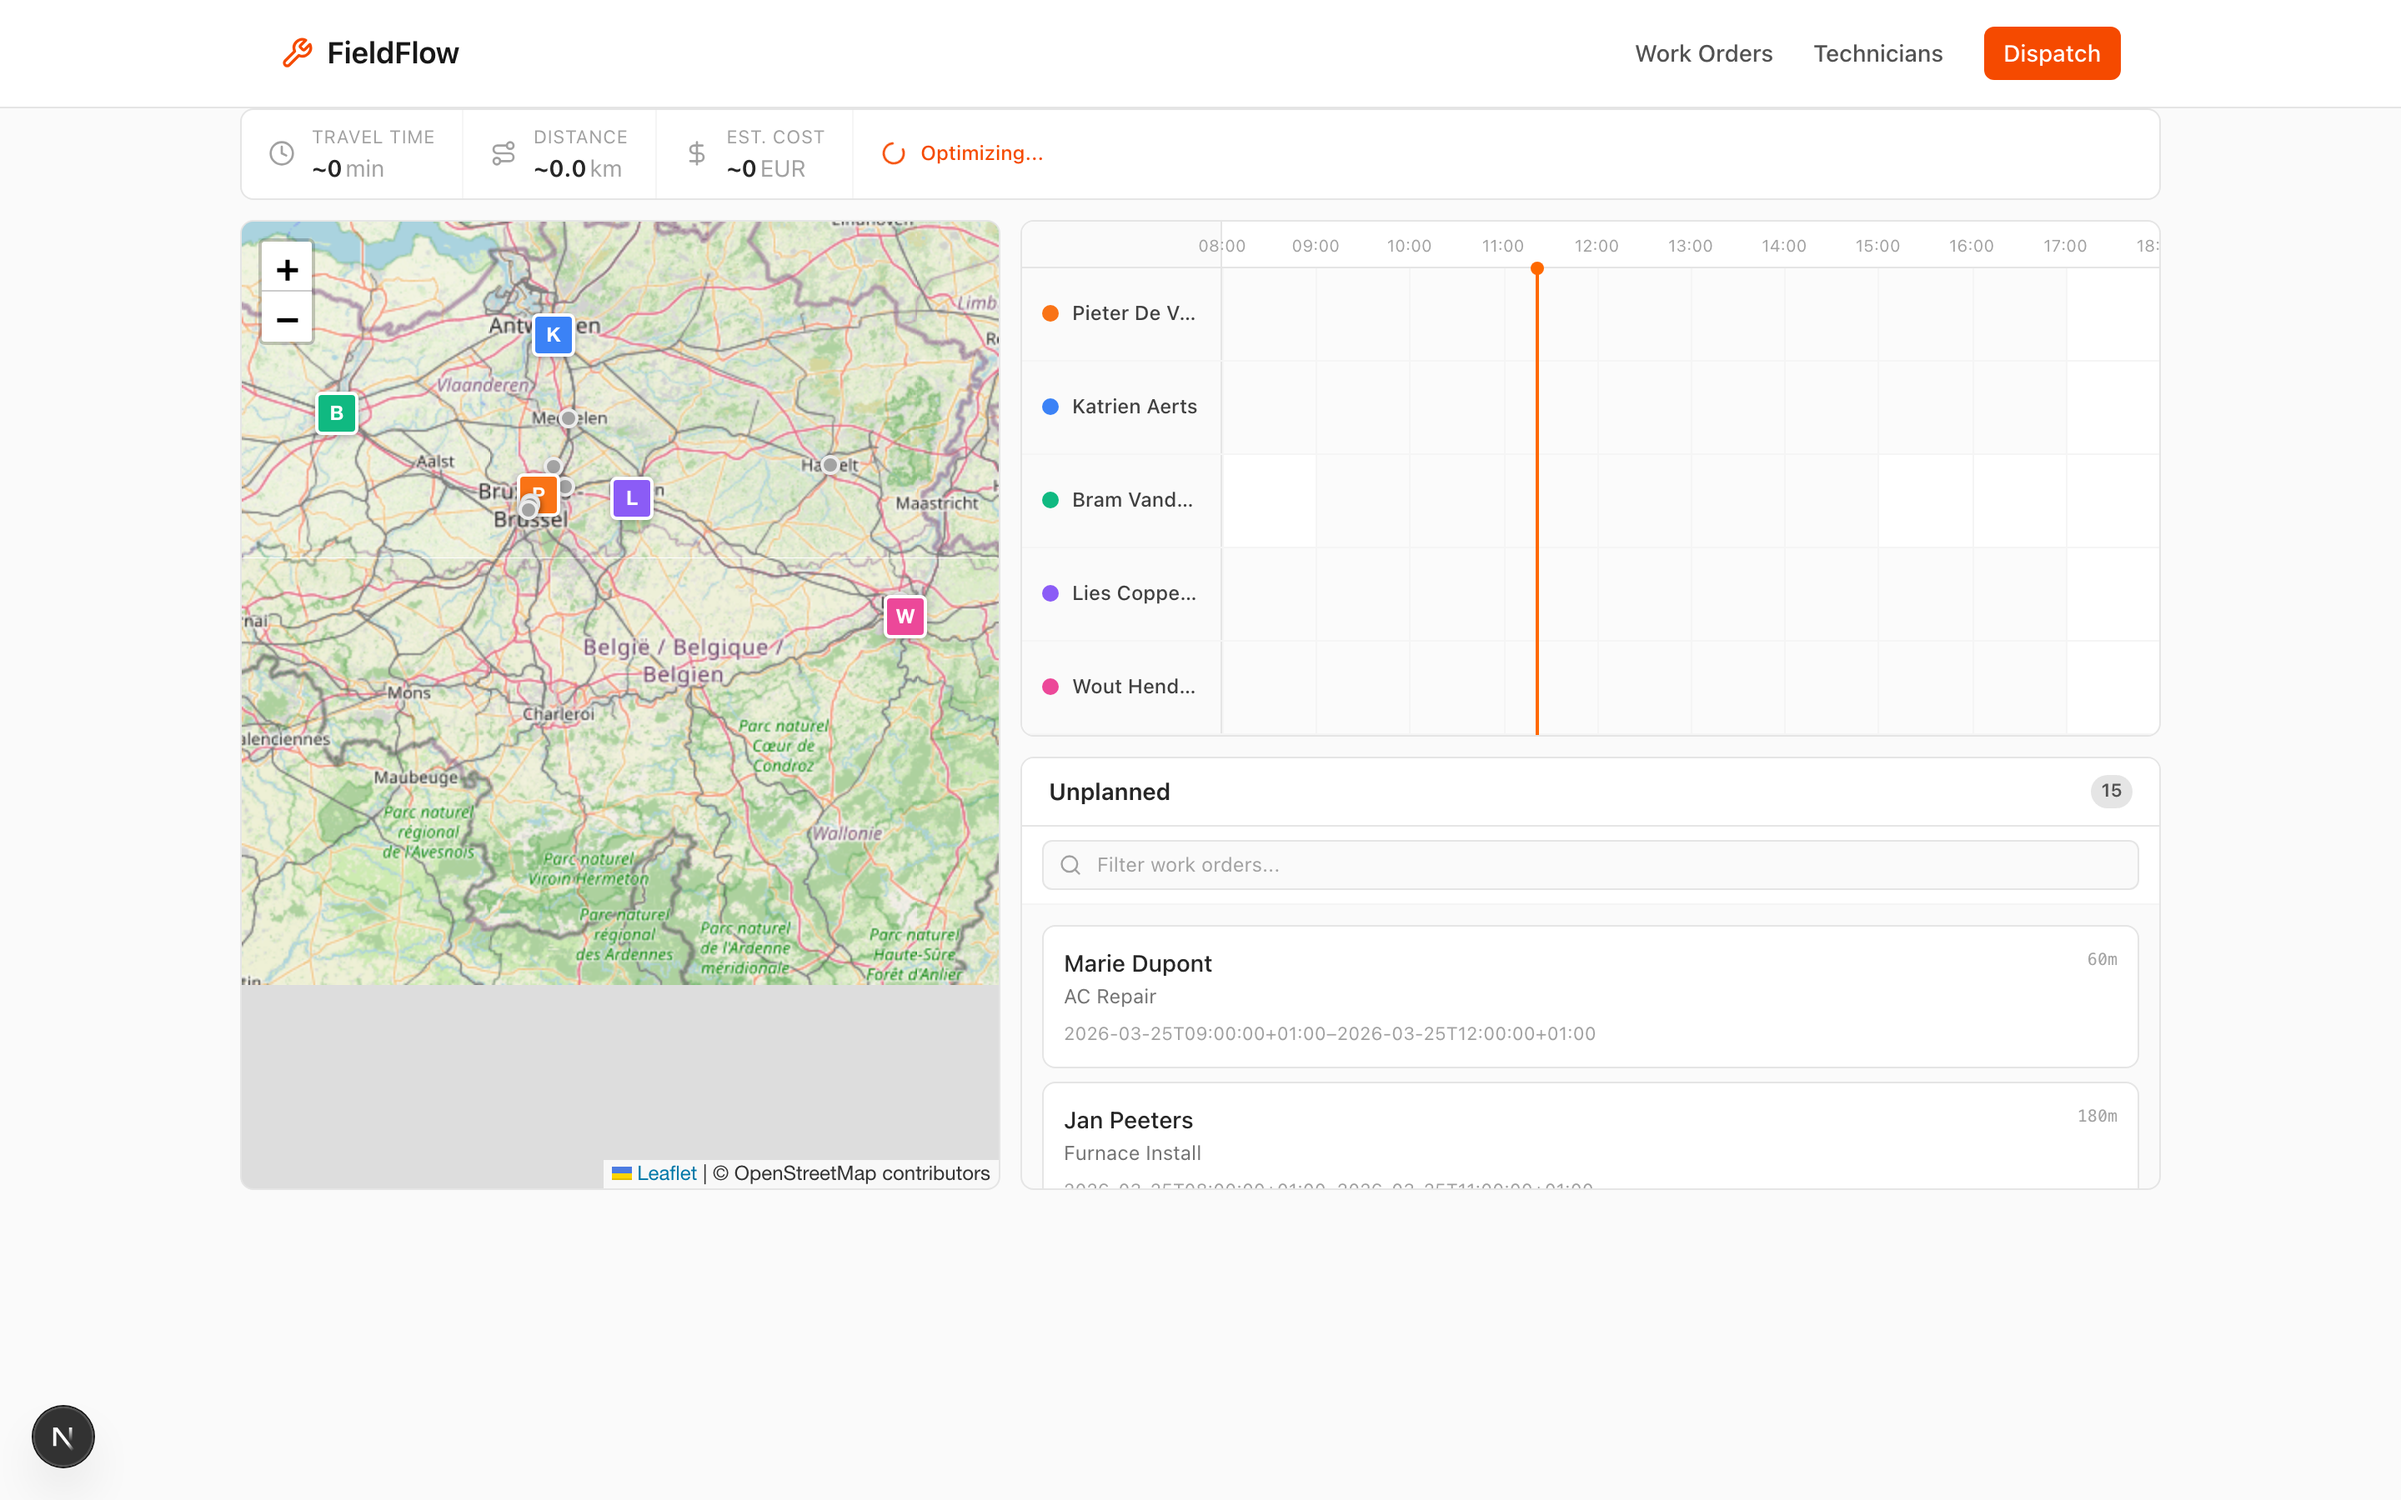
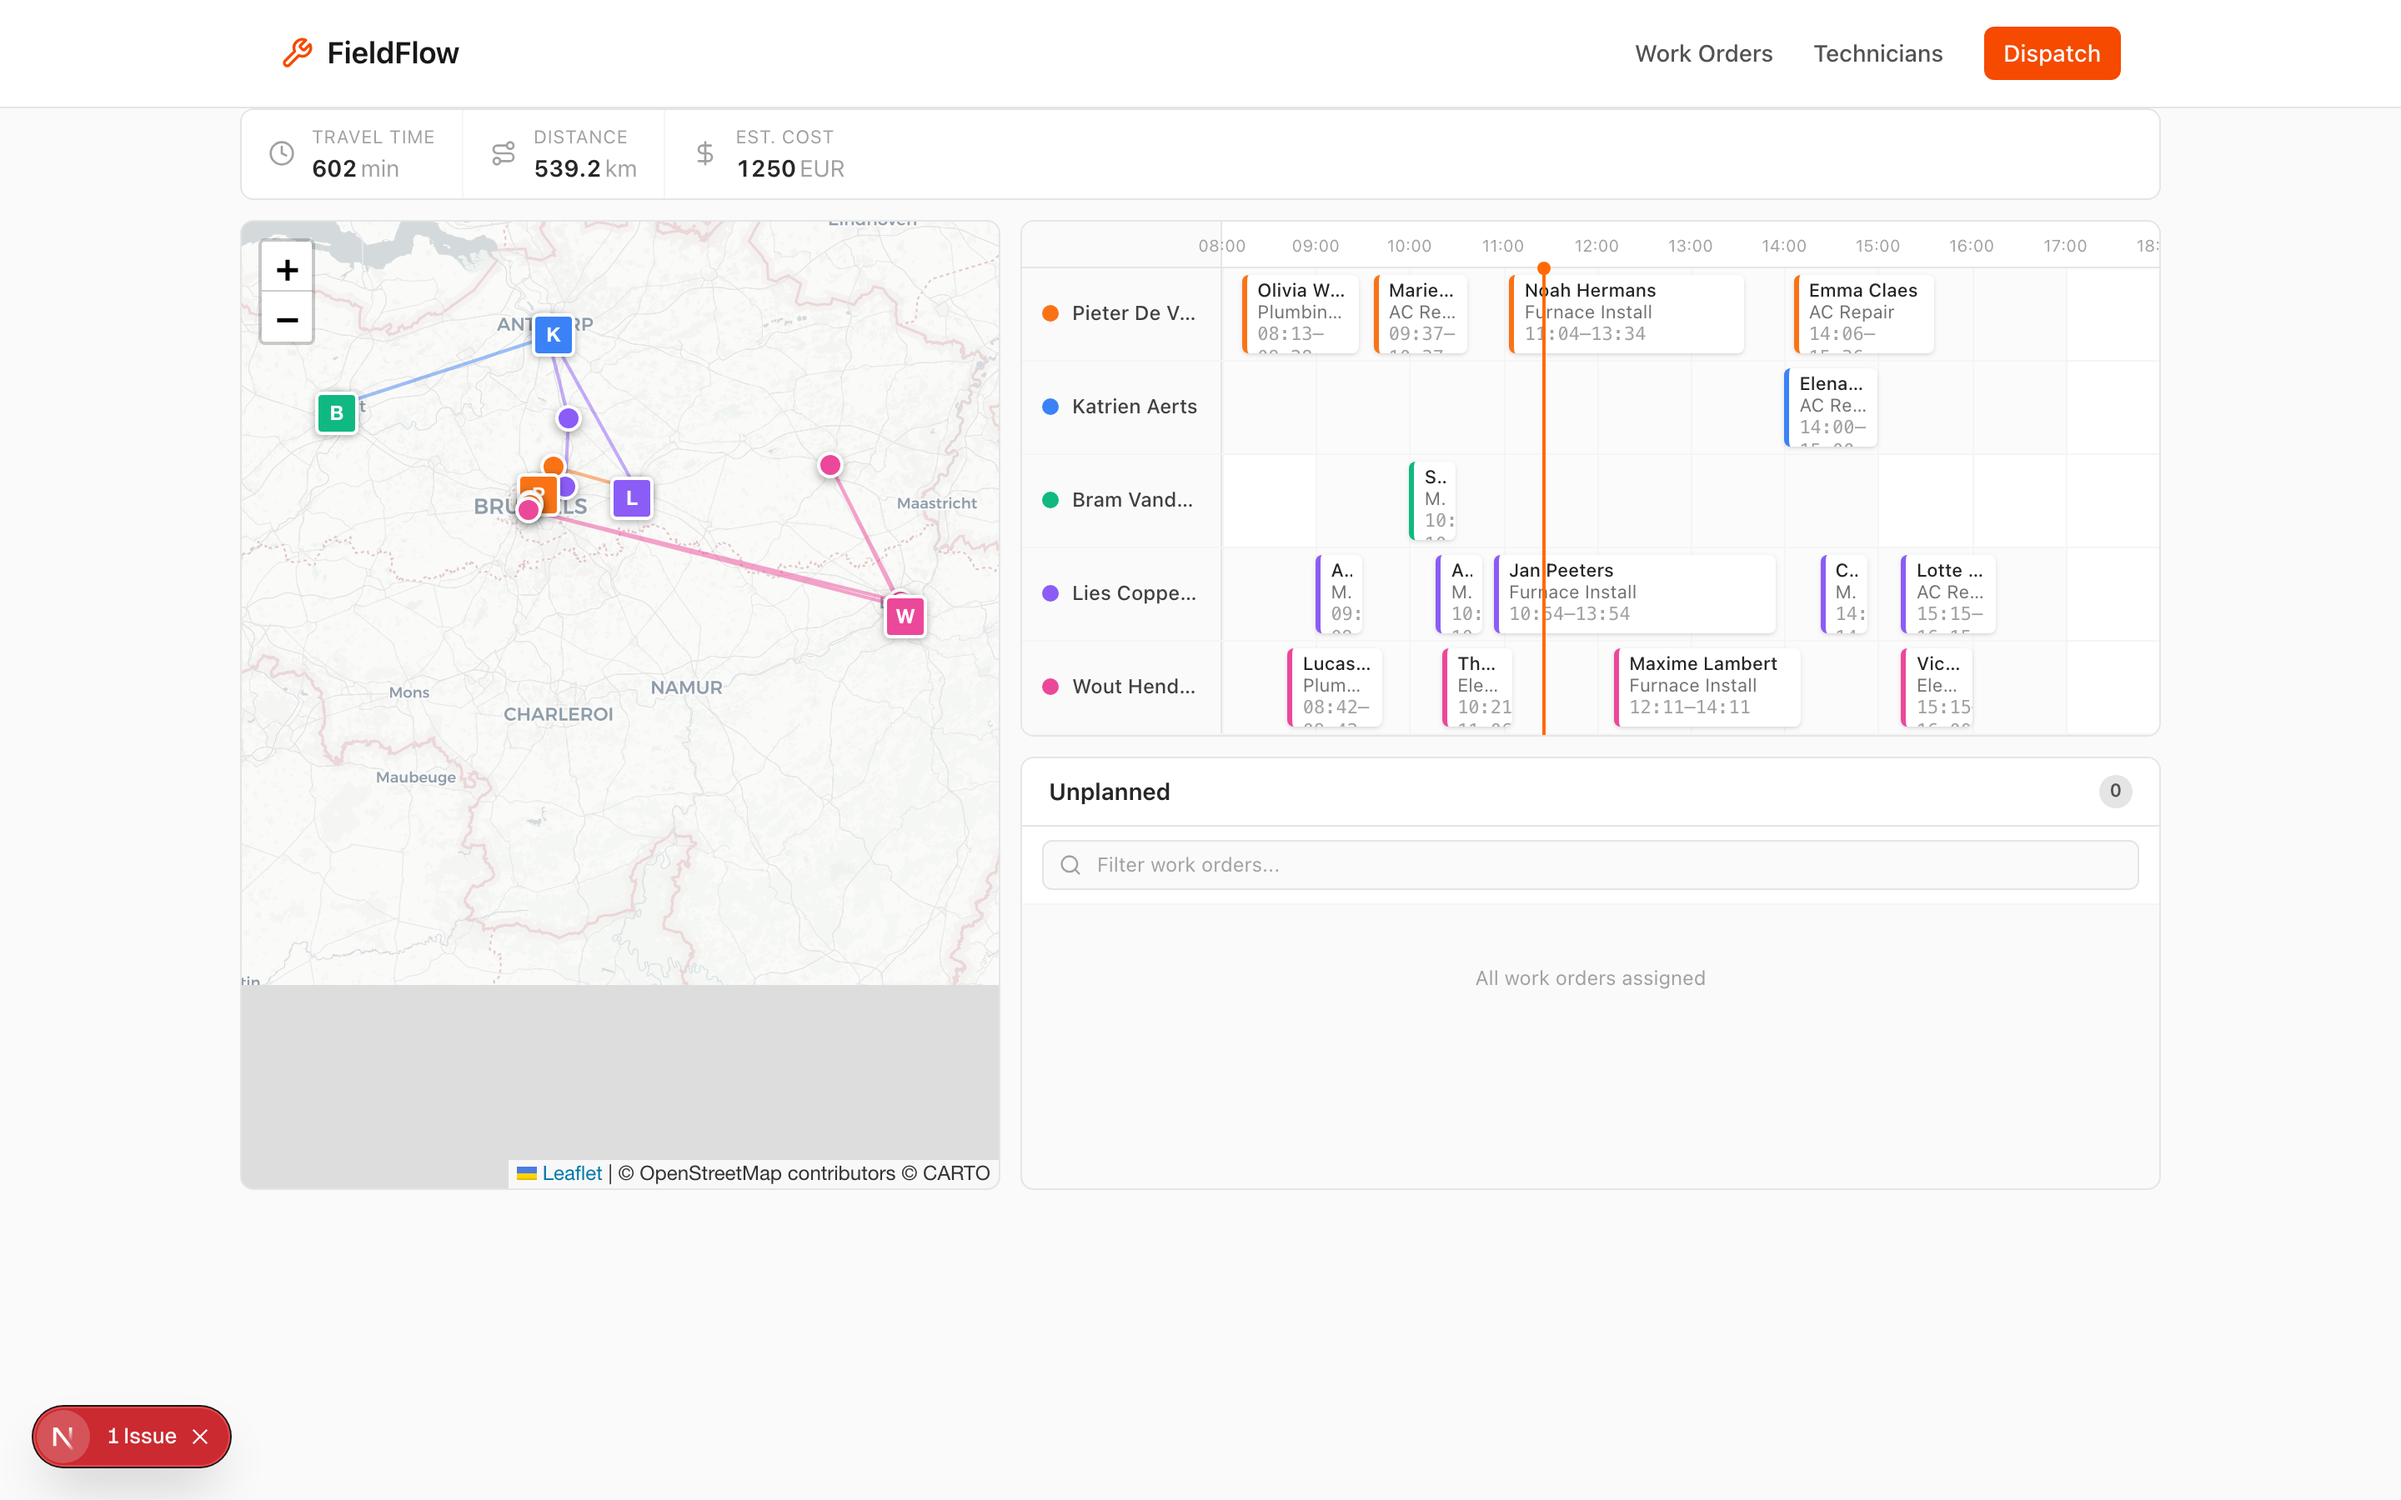
fix: improve map (CARTO tiles, bigger markers) + README with close-up screenshots
- Switch map tiles from OSM to CARTO Positron (clean, light theme)
- Increase work order marker size (12→16px) for visibility
- Add route polylines between technician depots and assigned work orders
- README now includes close-up screenshots: map, timeline, KPI bar
- Screenshots taken with live solver data (all 15 work orders assigned)

diff --git a/scripts/screenshots.ts b/scripts/screenshots.ts
@@ -1,9 +1,7 @@
 import { chromium } from "playwright";
 
 async function main() {
-  const browser = await chromium.launch({
-    args: ["--enable-webgl", "--use-gl=swiftshader"],
-  });
+  const browser = await chromium.launch();
   const context = await browser.newContext({
     viewport: { width: 1440, height: 900 },
     deviceScaleFactor: 2,
@@ -14,19 +12,16 @@ async function main() {
 
   // --- Before: System of Records ---
 
-  // Home page with new Dispatch button in nav
   await page.goto(BASE);
   await page.waitForLoadState("networkidle");
   await page.screenshot({ path: "screenshots/01-home.png" });
   console.log("✓ 01-home.png");
 
-  // Work Orders table
   await page.goto(`${BASE}/work-orders`);
   await page.waitForLoadState("networkidle");
   await page.screenshot({ path: "screenshots/02-work-orders.png", fullPage: true });
   console.log("✓ 02-work-orders.png");
 
-  // Technicians table
   await page.goto(`${BASE}/technicians`);
   await page.waitForLoadState("networkidle");
   await page.screenshot({ path: "screenshots/03-technicians.png", fullPage: true });
@@ -34,12 +29,49 @@ async function main() {
 
   // --- After: Dispatch Dashboard ---
 
-  // Dispatch page
   await page.goto(`${BASE}/dispatch`);
-  // Wait for components to render (map tiles + timeline)
-  await page.waitForTimeout(5000);
+  // Wait for the solve to complete and UI to update
+  // The "Optimizing..." text disappears when solve finishes
+  await page.waitForTimeout(12000); // solve + render + tile loading
   await page.screenshot({ path: "screenshots/04-dispatch-full.png" });
   console.log("✓ 04-dispatch-full.png");
+
+  // --- Close-ups ---
+
+  // Map close-up
+  const mapEl = page.locator(".leaflet-container").first();
+  if (await mapEl.isVisible()) {
+    await mapEl.screenshot({ path: "screenshots/05-map-closeup.png" });
+    console.log("✓ 05-map-closeup.png");
+  }
+
+  // Timeline close-up (the right panel area)
+  const timelineArea = page.locator("[data-testid='timeline']").first();
+  if (await timelineArea.isVisible().catch(() => false)) {
+    await timelineArea.screenshot({ path: "screenshots/06-timeline-closeup.png" });
+    console.log("✓ 06-timeline-closeup.png");
+  } else {
+    // Fallback: screenshot the right side of the page
+    await page.screenshot({
+      path: "screenshots/06-timeline-closeup.png",
+      clip: { x: 580, y: 110, width: 860, height: 420 },
+    });
+    console.log("✓ 06-timeline-closeup.png (clip)");
+  }
+
+  // Unplanned queue / bottom right
+  await page.screenshot({
+    path: "screenshots/07-unplanned-queue.png",
+    clip: { x: 580, y: 480, width: 860, height: 380 },
+  });
+  console.log("✓ 07-unplanned-queue.png");
+
+  // KPI bar close-up
+  await page.screenshot({
+    path: "screenshots/08-kpi-bar.png",
+    clip: { x: 0, y: 56, width: 1440, height: 56 },
+  });
+  console.log("✓ 08-kpi-bar.png");
 
   await browser.close();
   console.log("\nDone — screenshots saved to screenshots/");

diff --git a/components/dispatch/DispatchMap.tsx b/components/dispatch/DispatchMap.tsx
@@ -21,12 +21,15 @@ export function techColor(index: number) {
 }
 
 function circleIcon(color: string, size: number, selected: boolean) {
-  const border = selected ? `3px solid white; box-shadow: 0 0 0 3px ${color}66, 0 1px 4px rgba(0,0,0,0.3)` : `2px solid rgba(255,255,255,0.8); box-shadow: 0 1px 4px rgba(0,0,0,0.3)`;
+  const s = selected ? size + 6 : size;
+  const border = selected
+    ? `3px solid white; box-shadow: 0 0 0 3px ${color}88, 0 2px 6px rgba(0,0,0,0.4)`
+    : `2px solid white; box-shadow: 0 2px 6px rgba(0,0,0,0.35)`;
   return L.divIcon({
     className: "",
-    iconSize: [size, size],
-    iconAnchor: [size / 2, size / 2],
-    html: `<div style="width:${size}px;height:${size}px;border-radius:50%;background:${color};border:${border};cursor:pointer;"></div>`,
+    iconSize: [s, s],
+    iconAnchor: [s / 2, s / 2],
+    html: `<div style="width:${s}px;height:${s}px;border-radius:50%;background:${color};border:${border};cursor:pointer;transition:all 150ms;"></div>`,
   });
 }
 
@@ -59,9 +62,10 @@ export function DispatchMap() {
       attributionControl: true,
     }).setView([50.85, 4.35], 8);
 
-    L.tileLayer("https://tile.openstreetmap.org/{z}/{x}/{y}.png", {
-      attribution: "&copy; OpenStreetMap contributors",
+    L.tileLayer("https://{s}.basemaps.cartocdn.com/light_all/{z}/{x}/{y}{r}.png", {
+      attribution: "&copy; OpenStreetMap contributors &copy; CARTO",
       maxZoom: 19,
+      subdomains: "abcd",
     }).addTo(map);
 
     layerGroupRef.current = L.layerGroup().addTo(map);
@@ -118,7 +122,7 @@ export function DispatchMap() {
         color = techColor(idx);
       }
 
-      const size = isSelected ? 18 : 12;
+      const size = isSelected ? 20 : 16;
       const marker = L.marker([wo.latitude, wo.longitude], {
         icon: circleIcon(color, size, isSelected),
         title: `${wo.customerName} — ${wo.serviceType}`,

diff --git a/README.md b/README.md
@@ -34,11 +34,15 @@ No scheduling. No maps. No optimization. Just tables.
 
 ![Technicians table — 5 techs with skills (HVAC, Electrical, Plumbing, Maintenance), home bases, and shifts](screenshots/03-technicians.png)
 
+---
+
 ### Step 2 — Install the Solvice scheduler plugin
 
 ```bash
 claude plugin add github:solvice/scheduler-plugin
 ```
+
+---
 
 ### Step 3 — Run `/scheduler`
 
@@ -60,7 +64,9 @@ The plugin starts an interactive conversation. It asks 6 questions:
 > → Map + Timeline + Unplanned queue + KPI dashboard
 >
 > **6. Map library preference?**
-> → MapLibre GL JS
+> → Leaflet (lightweight, works everywhere)
+
+---
 
 ### Step 4 — The plugin proposes an architecture
 
@@ -68,9 +74,9 @@ Before writing any code, the plugin presents a design:
 
 ```
 Domain Mapping:
-  Work Order  → Solvice Job
-  Technician  → Solvice Resource
-  Service Type → Solvice Tag
+  Work Order       → Solvice Job
+  Technician       → Solvice Resource
+  Service Type     → Solvice Tag
   Appointment Window → Solvice TimeWindow
 
 Components to generate:
@@ -84,17 +90,47 @@ Components to generate:
 
 You confirm, and it generates.
 
+---
+
 ### Step 5 — The dispatch dashboard appears
 
 The plugin generates all the code and a new **Dispatch** button appears in the nav:
 
-![Home page with the new Dispatch button in the navigation](screenshots/01-home.png)
+![Home page with the new orange Dispatch button in the navigation](screenshots/01-home.png)
 
-Click it, and you get a full dispatch planning dashboard:
+Click it, and the Solvice solver optimizes all 15 work orders across 5 technicians:
 
-![Dispatch dashboard — KPI bar, timeline with 5 technicians, unplanned queue with 15 work orders, map panel](screenshots/04-dispatch-full.png)
+![Full dispatch dashboard — map with routes, Gantt timeline, KPI metrics, all work orders assigned](screenshots/04-dispatch-full.png)
 
-**What the plugin generated:**
+---
+
+### What you see
+
+#### 🗺 Map — Routes across Belgium
+
+Technician home bases (colored squares with initials), work order locations (colored dots), and optimized route polylines connecting each technician's assigned work orders.
+
+![Map close-up — CARTO light tiles, technician depots, work order markers, route polylines](screenshots/05-map-closeup.png)
+
+#### 📊 Timeline — Gantt-style schedule
+
+Each row is a technician. Colored blocks show assigned work orders positioned by arrival time, sized by service duration. Customer name, service type, and time visible on each block.
+
+![Timeline close-up — 5 technician rows with color-coded work order blocks](screenshots/06-timeline-closeup.png)
+
+#### 📈 KPI Bar — Real-time metrics
+
+Travel time, distance, and estimated cost — updated live as the solver optimizes.
+
+![KPI bar — 602 min travel time, 539.2 km distance, €1250 estimated cost](screenshots/08-kpi-bar.png)
+
+#### 📋 Unplanned Queue
+
+All 15 work orders assigned — queue shows 0 unplanned. If any work order couldn't be assigned (skill mismatch, capacity), it would appear here as a draggable card.
+
+---
+
+### What the plugin generated
 
 | Layer | Files | What it does |
 |:------|:------|:-------------|
@@ -168,7 +204,7 @@ The plugin asks about your use case, adapts to your terminology, and generates a
 
 | Before (`v0`) | After (`v1`) |
 |:--------------|:-------------|
-| Next.js 15 | + MapLibre GL JS |
+| Next.js 15 | + Leaflet (map) |
 | TypeScript | + @dnd-kit (drag-and-drop) |
 | Tailwind CSS v4 | + Solvice VRP API |
 | Lucide icons | + Distance matrix caching |
